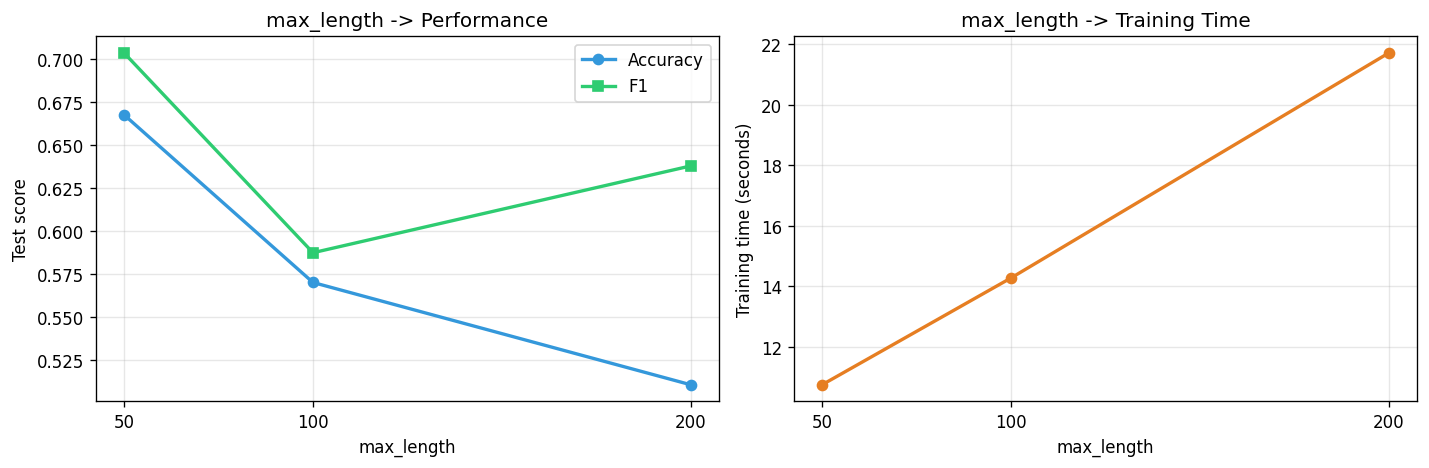
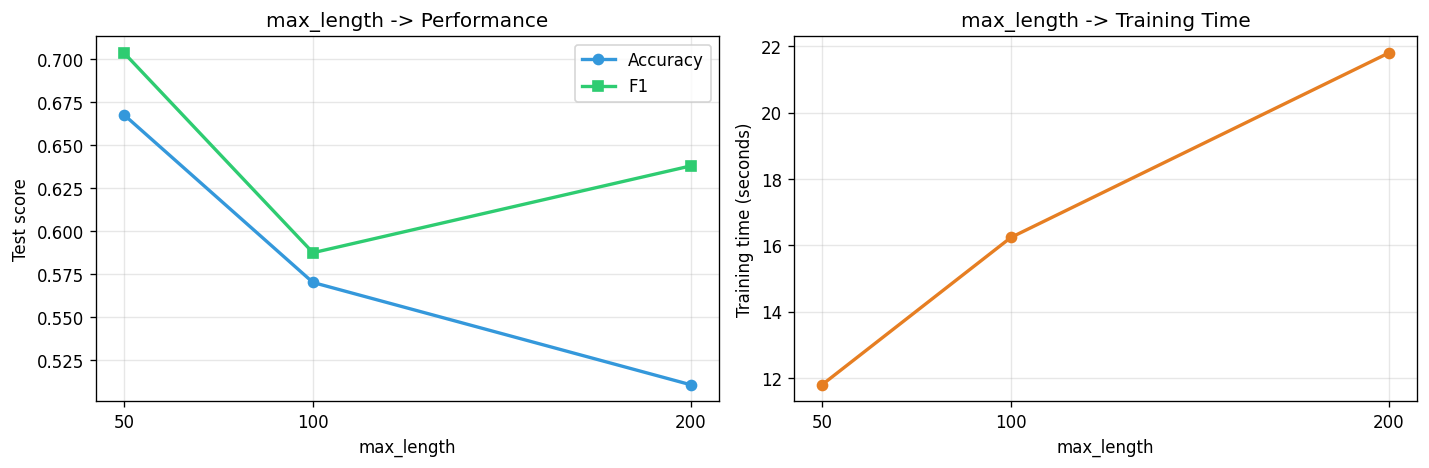
fixed py

diff --git a/lab5/rnn_cell.py b/lab5/rnn_cell.py
@@ -342,14 +342,36 @@ try:
             self.classifier_dropout = nn.Dropout(dropout)
             self.fc = nn.Linear(hidden_size, num_classes)
 
+        
         def forward(self, x):
+            # Dem so token thuc cua moi sequence, khong tinh token PAD.
+            # Dataset dang padding o cuoi sequence (right padding).
+            lengths = x.ne(self.embedding.padding_idx).sum(dim=1)
+            lengths = lengths.clamp(min=1).cpu()
+
+            # Chuyen token IDs thanh embedding.
             emb = self.embed_dropout(self.embedding(x))
+
+            # Bo qua cac timestep padding khi chay recurrent layer.
+            packed_emb = nn.utils.rnn.pack_padded_sequence(
+                emb,
+                lengths,
+                batch_first=True,
+                enforce_sorted=False
+            )
+
+            # Lay hidden state tai token thuc cuoi cung.
             if self.rnn_type == "lstm":
-                _, (h_n, _) = self.rnn(emb)
+                _, (h_n, _) = self.rnn(packed_emb)
             else:
-                _, h_n = self.rnn(emb)
+                _, h_n = self.rnn(packed_emb)
+
             last_hidden = h_n[-1]
-            return self.fc(self.classifier_dropout(last_hidden))
+
+            # Phan loai sentiment.
+            logits = self.fc(self.classifier_dropout(last_hidden))
+            return logits
+
 
         def count_parameters(self):
             return sum(p.numel() for p in self.parameters() if p.requires_grad)

diff --git a/lab5/README.md b/lab5/README.md
@@ -50,9 +50,9 @@ Tiền xử lý: bỏ 418 duplicate, bỏ thẻ `<br />`, chia 70/15/15 (train/v
 | Model | Representation | Accuracy | F1 | Train time |
 |---|---|---:|---:|---:|
 | TF-IDF + Logistic Regression | Sparse | ~0.8815 | ~0.8837 | ~0,12s |
-| RNN + Embedding | Dense (dim=64) | ~0.5095 | ~0.4717 | ~22,6 min |
-| LSTM + Embedding | Dense (dim=64) | ~0.6535 | ~0.5818 | ~23,9 min |
-| GRU + Embedding | Dense (dim=64) | ~0.7145 | ~0.7420 | ~36,1 min |
+| RNN + Embedding | Dense (dim=64) | ~0.5095 | ~0.4717 | ~22,6 s |
+| LSTM + Embedding | Dense (dim=64) | ~0.6535 | ~0.5818 | ~23,9 s |
+| GRU + Embedding | Dense (dim=64) | ~0.7145 | ~0.7420 | ~36,1 s |
 
 
 ## Cách chạy
